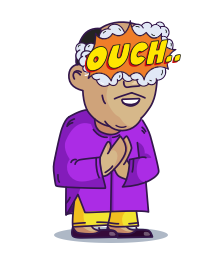
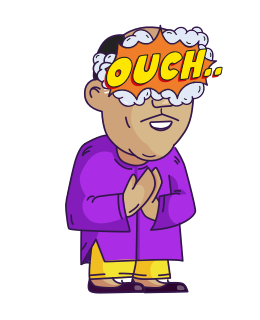
Added hit images

diff --git a/src/states/Arena.js b/src/states/Arena.js
@@ -15,6 +15,9 @@ class Arena extends Phaser.State {
         this.game.load.image('babuji-loaded', 'assets/final/char-babuji-kalash.png');
         this.game.load.image('prem-loaded', 'assets/final/char-prem-gun.png');
 
+        this.game.load.image('prem-hit', 'assets/final/char-prem-hit.png');
+        this.game.load.image('babuji-hit', 'assets/final/char-babuji-ouch.png');
+
         this.game.load.image('wall', 'assets/final/wall.png');
         this.game.load.image('bg', 'assets/final/bg-fight.png');
         this.game.load.image('projectile', 'assets/final/projectile-bullet.png');
@@ -118,12 +121,27 @@ class Arena extends Phaser.State {
     }
 
     _handleHit(hitBy, hitWeapon, hitTo, isWall, isFirstPlayer) {
-
+        var self = this;
         if (isWall) {
             console.log("You hit the wall");
         } else {
             console.log("Player hit the other one ");
             if (isFirstPlayer) {
+                if (this.secondPlayerSilhouette.player.name === "tom") {
+                    this.firstPlayerSilhouette.loadTexture('babuji-hit');
+                    var id = setTimeout(function(){
+                        self.firstPlayerSilhouette.loadTexture("tom");
+                        clearTimeout(id);
+                    },1000);
+                }
+                if (this.secondPlayerSilhouette.player.name === "harry") {
+                    this.firstPlayerSilhouette.loadTexture('prem-hit');
+                    var id = setTimeout(function(){
+                        self.firstPlayerSilhouette.loadTexture("harry");
+                        clearTimeout(id);
+                    },1000);
+
+                }
                 this.updateHealth2(0.2)
             } else {
                 this.updateHealth1(0.2);
@@ -263,12 +281,14 @@ class Arena extends Phaser.State {
         this.firstPlayerWeapon.checkWorldBounds = true;
         this.firstPlayerWeaponTransparent.events.onDragStop.add(this.dragFinished, this, 0, this.firstPlayerWeapon);
         this.firstPlayerWeapon.events.onOutOfBounds.add(this.finishAnimation, this, 0, this.firstPlayerWeapon);
-        if (this.firstPlayerSilhouette.player.name === "Tom") {
+        if (this.firstPlayerSilhouette && this.firstPlayerSilhouette.player.name === "Tom") {
+            console.log("Changing textur tom to loaded");
             this.firstPlayerSilhouette.loadTexture('babuji-loaded');
-        } else if (this.firstPlayerSilhouette.player.name === "Harry") {
+        } else if (this.firstPlayerSilhouette && this.firstPlayerSilhouette.player.name === "Harry") {
+            console.log("Changing textur harry to loaded");
             this.firstPlayerSilhouette.loadTexture('prem-loaded');
         } else {
-            console.log("Neither tom or harry " + this.firstPlayerSilhouette.player.name);
+            console.log("Neither tom or harry " + this.firstPlayerSilhouette);
         }
     }
 
@@ -285,12 +305,14 @@ class Arena extends Phaser.State {
         this.secondPlayerWeapon.events.onOutOfBounds.add(this.finishAnimation, this, 0, this.secondPlayerWeapon);
         this.game.physics.enable([this.secondPlayerWeapon], Phaser.Physics.ARCADE);
         this.secondPlayerWeapon.body.allowGravity = false;
-        if (this.firstPlayerSilhouette.player.name === "Tom") {
+        if (this.firstPlayerSilhouette && this.firstPlayerSilhouette.player.name === "Tom") {
+            console.log("Changing textur tom to unloaded");
             this.firstPlayerSilhouette.loadTexture('tom');
-        } else if (this.firstPlayerSilhouette.player.name === "Harry") {
+        } else if (this.firstPlayerSilhouette && this.firstPlayerSilhouette.player.name === "Harry") {
+            console.log("Changing textur harry to unloaded");
             this.firstPlayerSilhouette.loadTexture('harry');
         } else {
-            console.log("Neither tom or harry " + this.firstPlayerSilhouette.player.name);
+            console.log("Neither tom or harry " + this.firstPlayerSilhouette);
         }
     }
 
